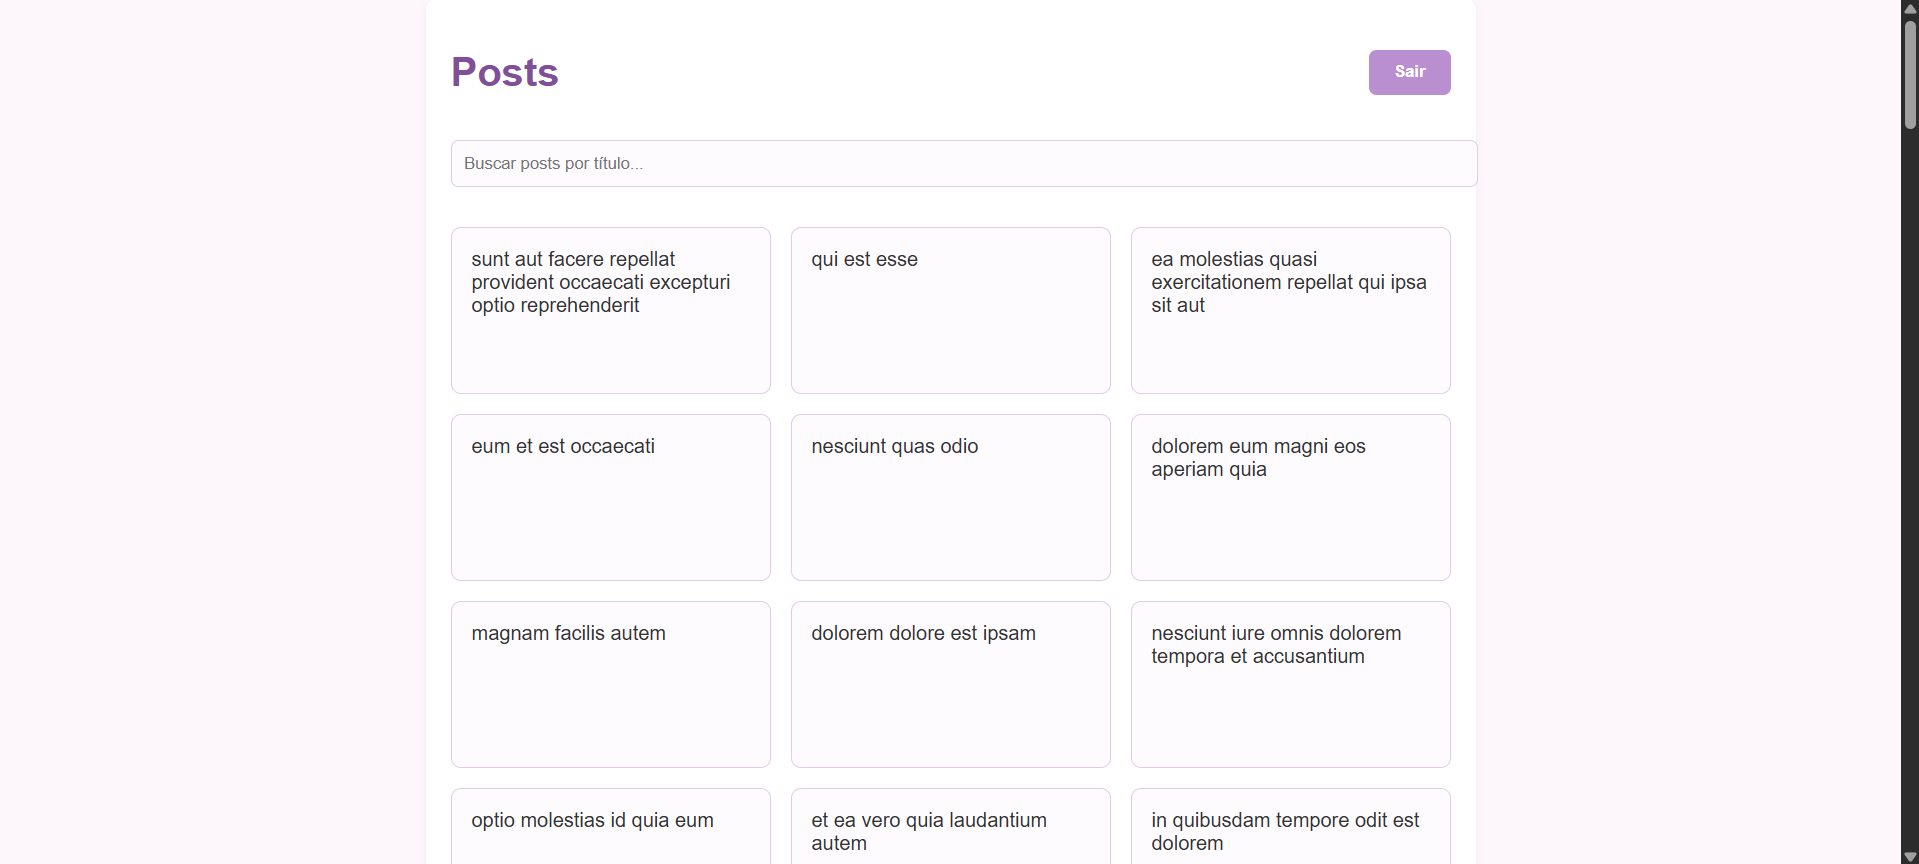
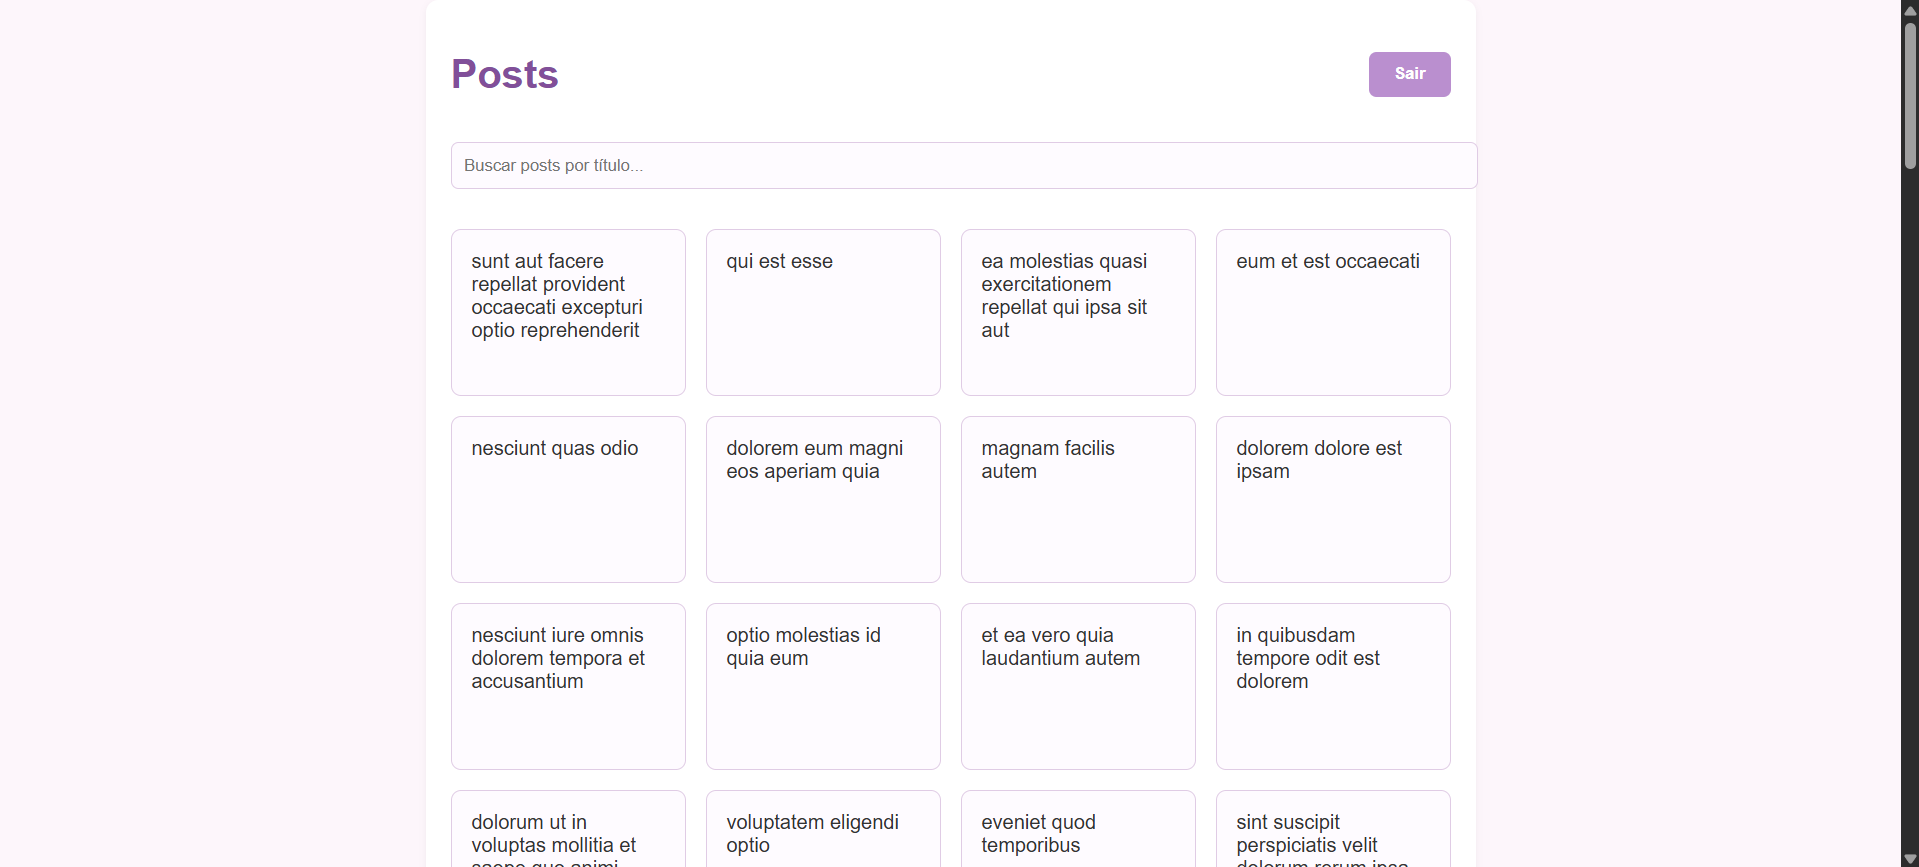
.

diff --git a/styles/main.css b/styles/main.css
@@ -67,7 +67,7 @@ button:hover {
 
 .posts-grid {
   display: grid;
-  grid-template-columns: repeat(auto-fit, minmax(220px, 1fr));
+  grid-template-columns: repeat(4, 1fr);
   gap: 16px;
   margin-top: 20px;
 }
@@ -148,4 +148,16 @@ button:hover {
 
 .hidden {
   display: none;
+}
+
+@media (max-width: 800px) {
+  .posts-grid {
+    grid-template-columns: repeat(2, 1fr);
+  }
+}
+
+@media (max-width: 400px) {
+  .posts-grid {
+    grid-template-columns: 1fr;
+  }
 }
